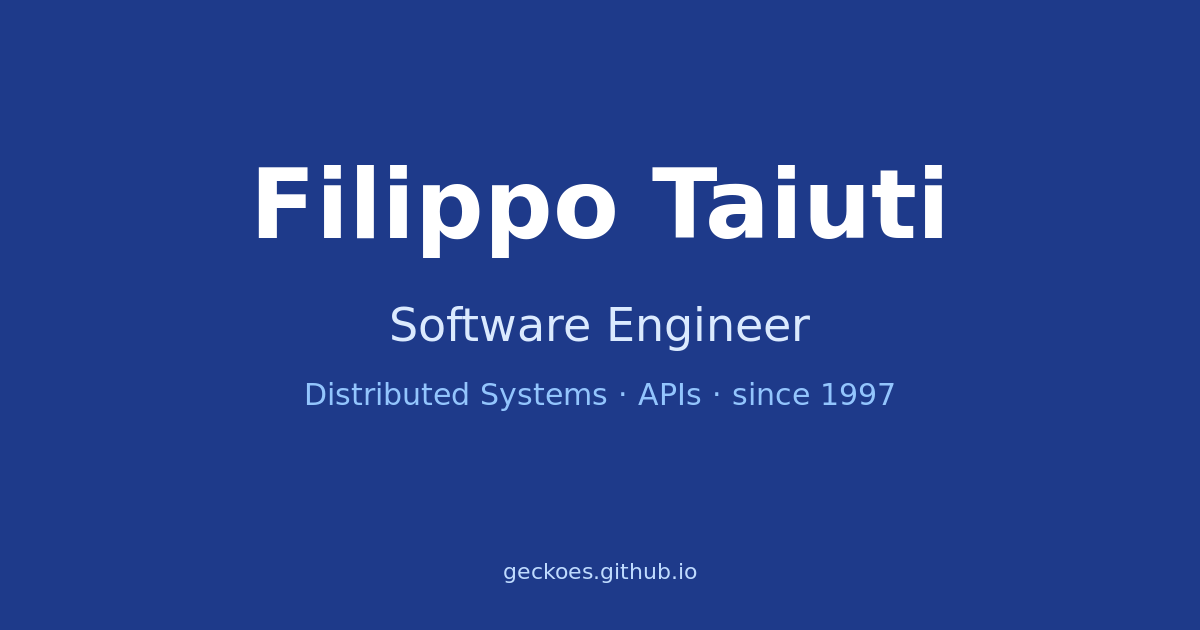
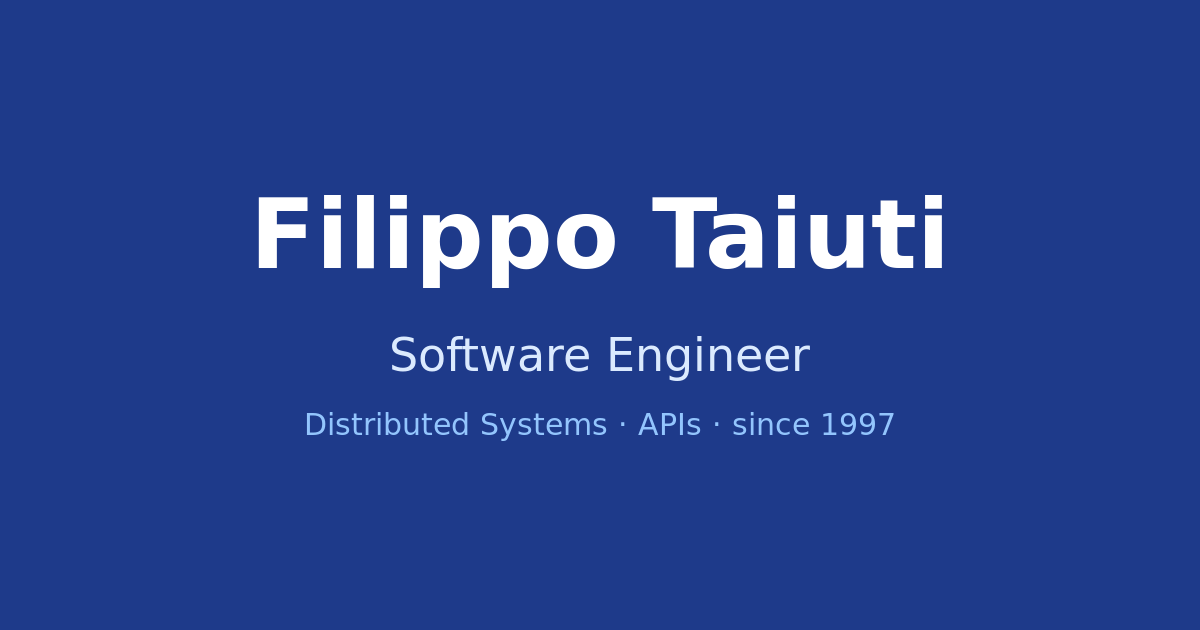
update Open Graph and meta description

Changed region(s): [[0.2158, 0.2413, 0.8017, 0.4524], [0.2467, 0.4825, 0.74, 0.6937], [0.4008, 0.9048, 0.5858, 0.9349]]

diff --git a/index.html b/index.html
@@ -8,7 +8,7 @@
 
   <meta property="og:title" content="Filippo Taiuti — Software Engineer">
   <meta property="og:description" content="Backend services, distributed systems, and the things that surface in production. Florence, Italy, in tech since 1997.">
-  <meta property="og:type" content="profile">
+  <meta property="og:type" content="website">
   <meta property="og:url" content="https://filippotaiuti.dev/">
   <meta property="og:image" content="https://filippotaiuti.dev/og.png">
   <meta property="og:image:width" content="1200">
